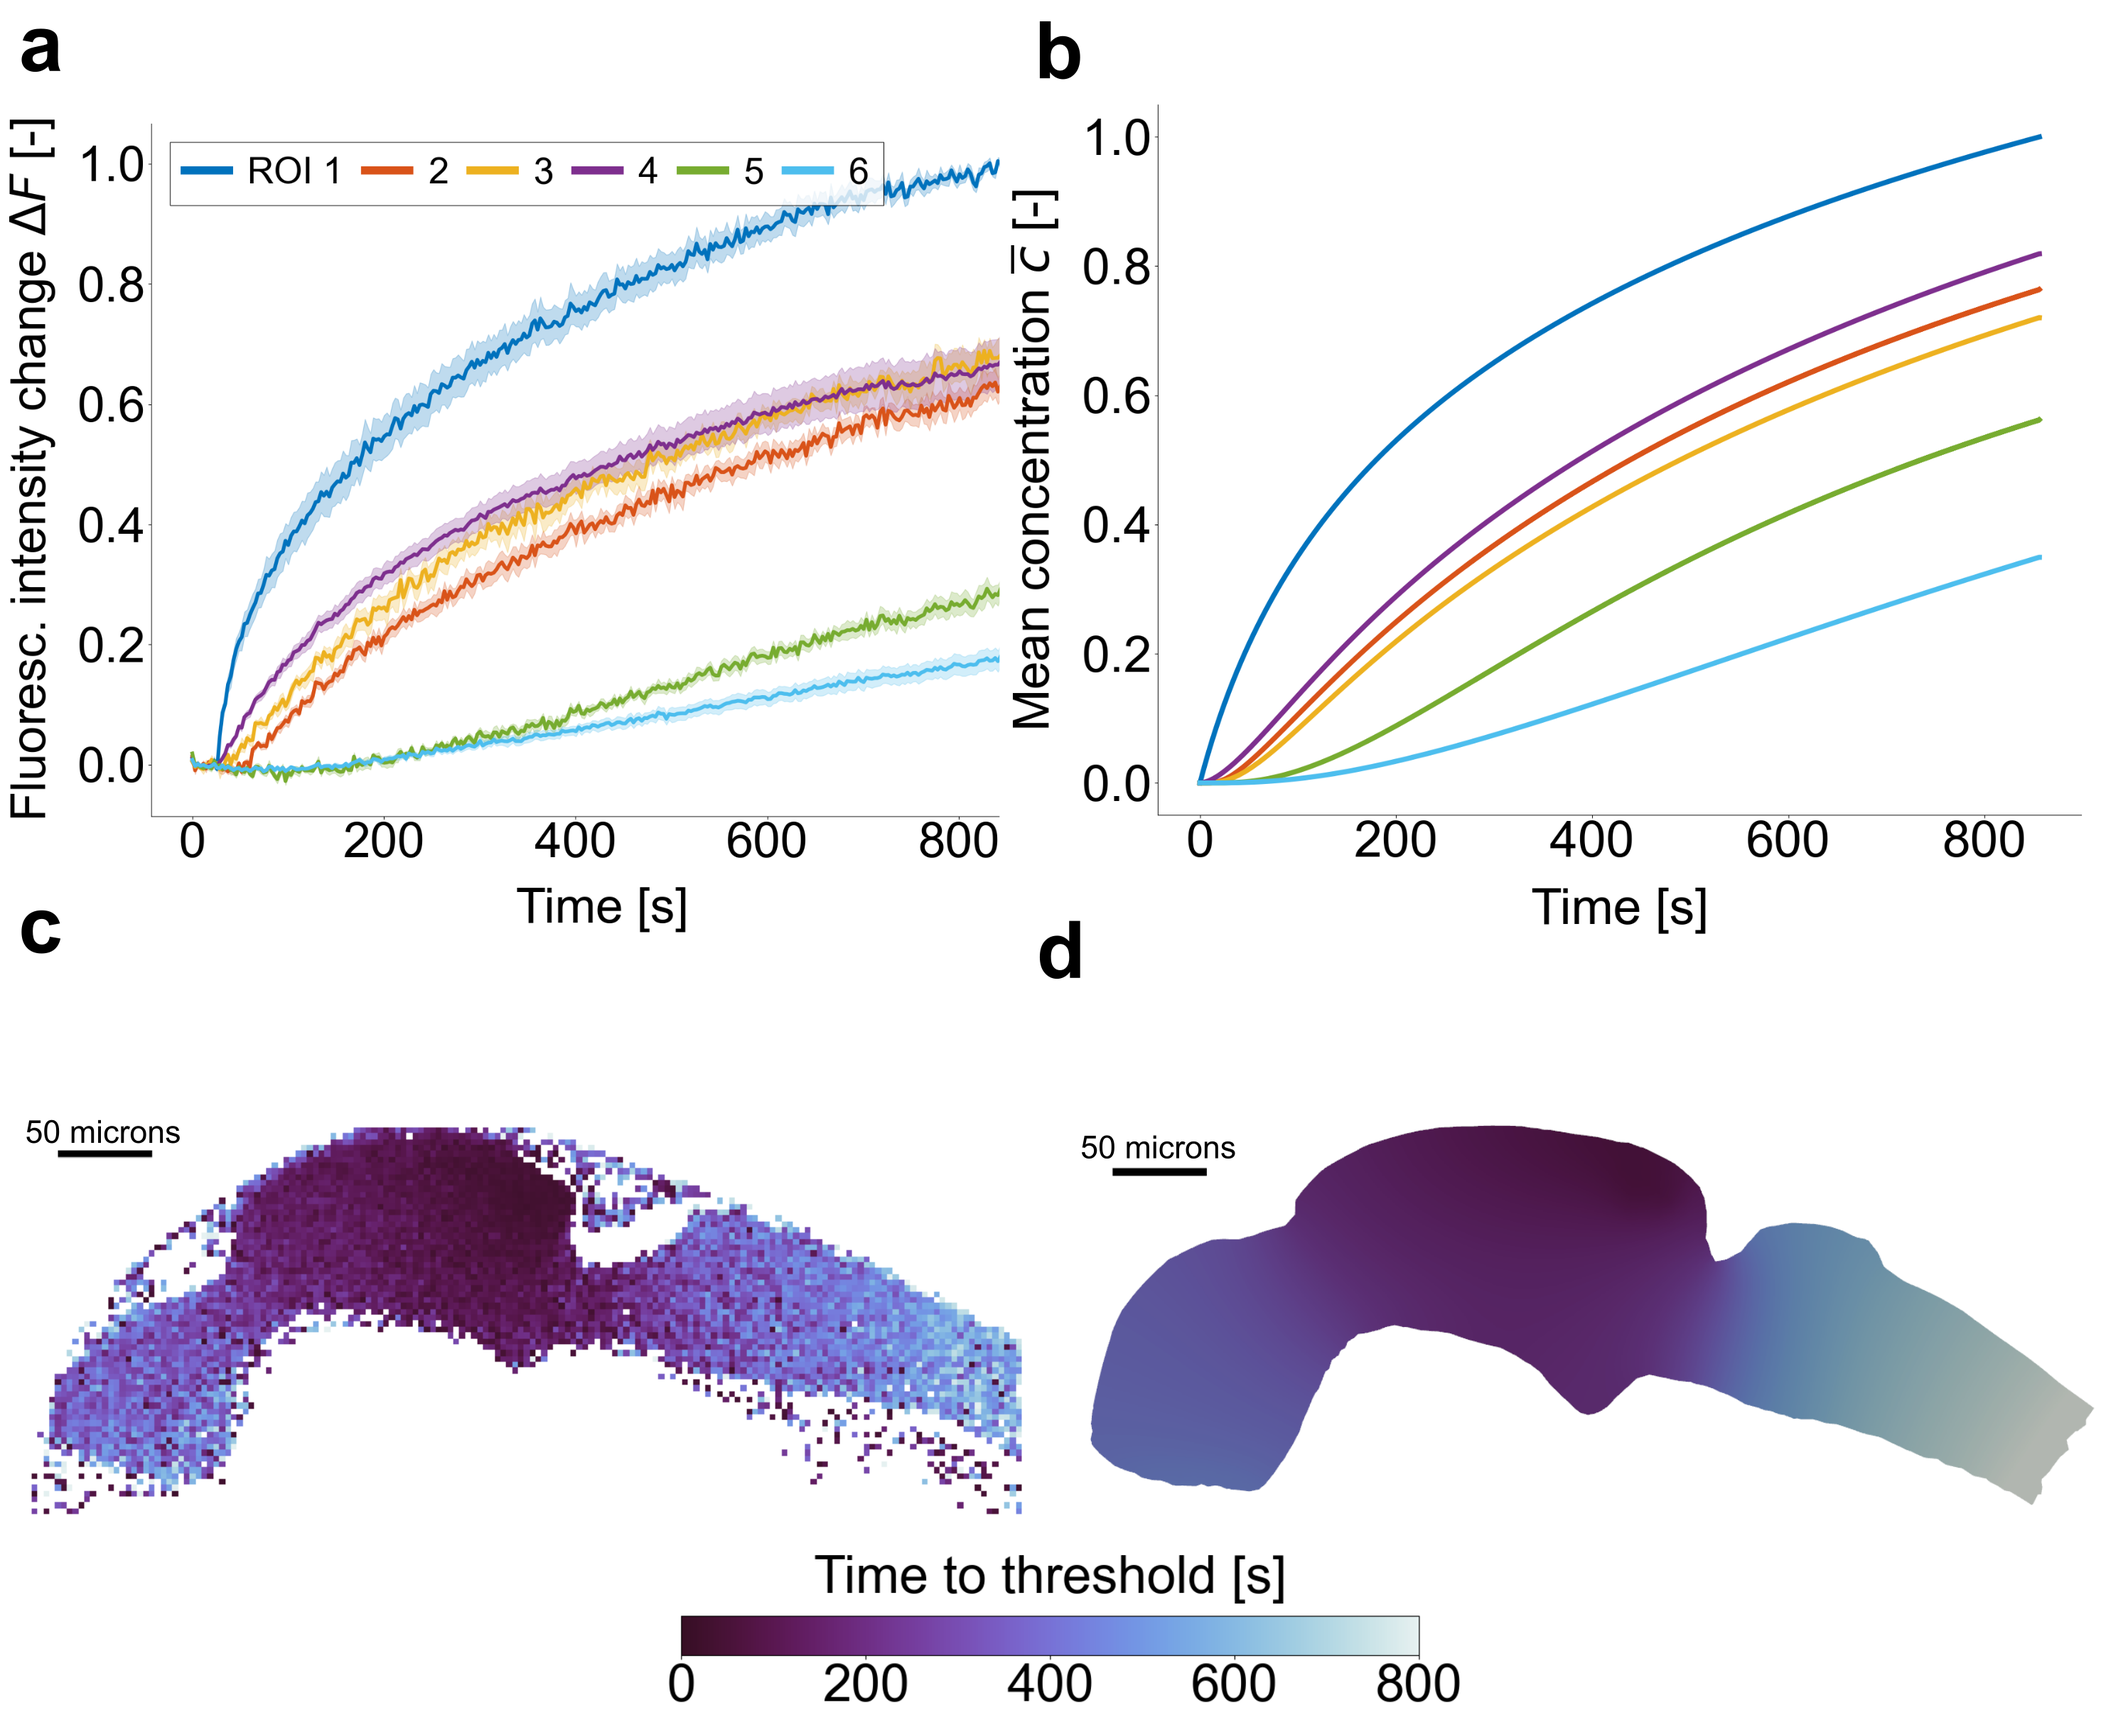
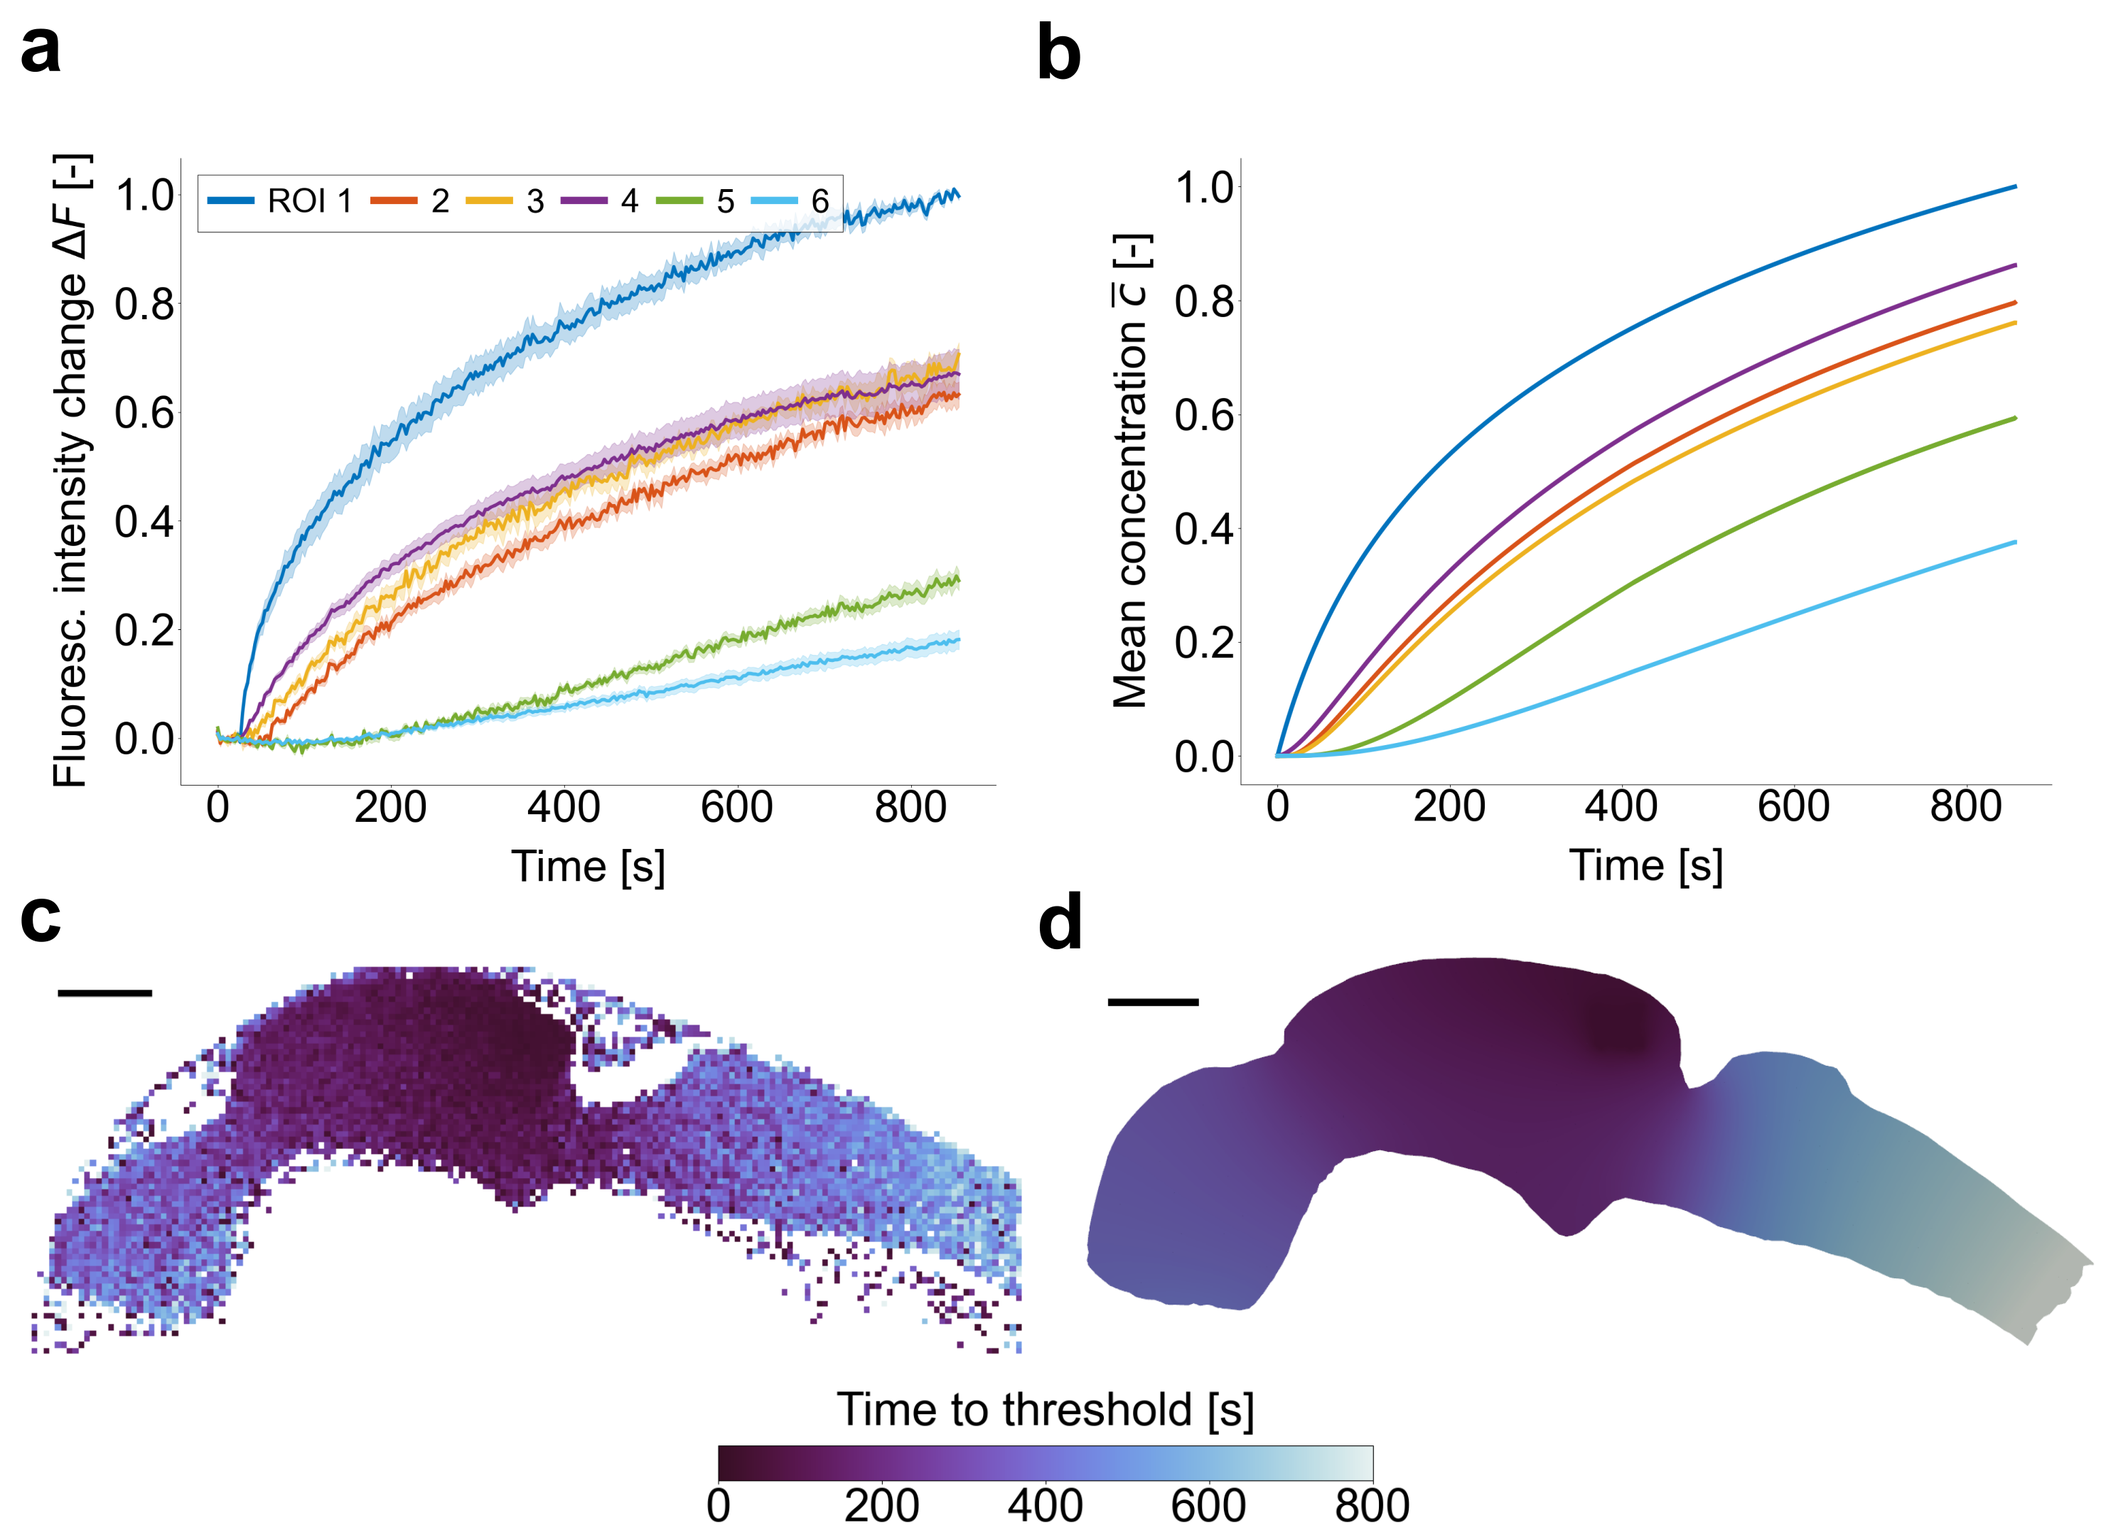
final figure 3

diff --git a/paper/main.tex b/paper/main.tex
@@ -359,7 +359,7 @@ experimental values (\Crefpanels{fig:fig3}{c, d}).
     a transport simulation with diffusion coefficient $D_3$.
     We have excluded the posterior-most regions of the geometries,
     because the values of $\Delta F$ and $\cbar$ never exceeded the threshold
-    value of 0.25 in these regions.}
+    value of 0.25 in these regions. Scale bars 50 \textmu m.}
     \label{fig:fig3}
 \end{figure}
 % Final Delta F values
